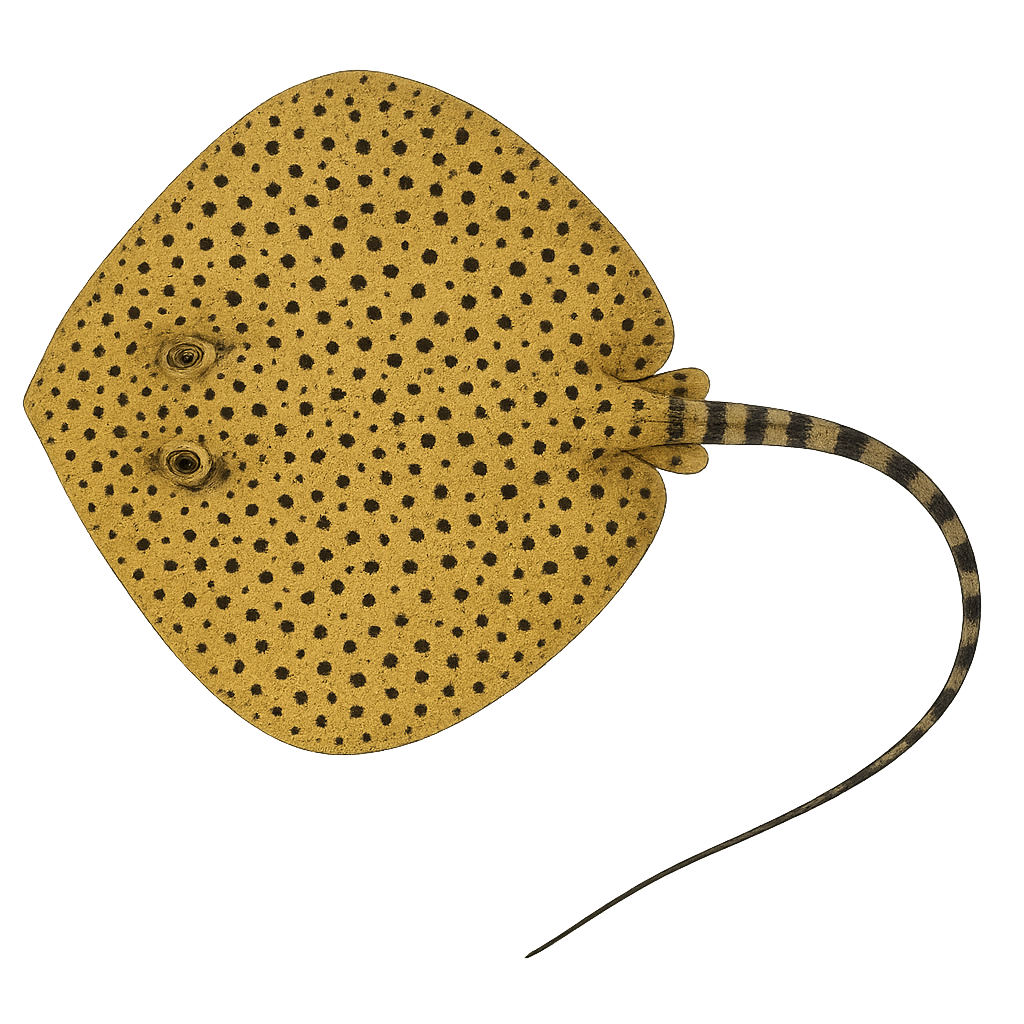
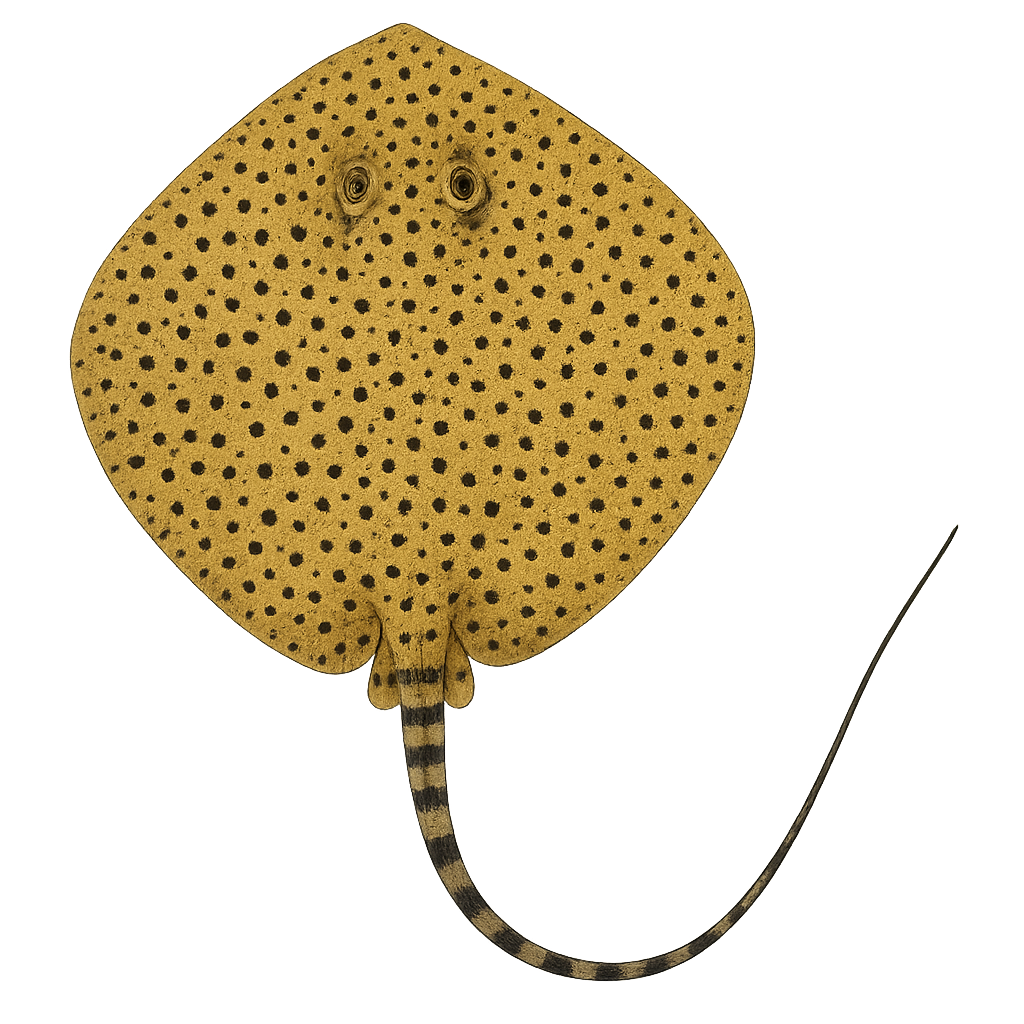
feat: Rays

Changed region(s): [[0.0, 0.0, 0.9688, 0.9688], [0.8438, 0.5625, 0.9062, 0.6562], [0.5625, 0.8438, 0.6562, 0.9062]]

diff --git a/src/data/configs/rays/myliobatiformes.config.js b/src/data/configs/rays/myliobatiformes.config.js
@@ -1,4 +1,4 @@
-import { dasyatisMicrops } from "../../species/rays/myliobatiformes/dasyatis-microps";
+import { megatrygonMicrops } from "../../species/rays/myliobatiformes/megatrygon-microps";
 import { hexatrygonBickelli } from "../../species/rays/myliobatiformes/hexatrygon-bickelli";
 import { himanturaSchmardae } from "../../species/rays/myliobatiformes/himantura-schmardae";
 import { paratrygonAiereba } from "../../species/rays/myliobatiformes/paratrygon-aiereba";
@@ -25,7 +25,7 @@ export const myliobatiformesConfig = {
                     children: [
                         {
                             children: [
-                                dasyatisMicrops,
+                                megatrygonMicrops,
                                 {
                                     children: [
                                         himanturaSchmardae,

diff --git a/src/data/species/rays/myliobatiformes/dasyatidae/neotrygon-picta.js b/src/data/species/rays/myliobatiformes/dasyatidae/neotrygon-picta.js
@@ -1,9 +1,12 @@
 import { CONSERVATION_STATUS, NUM_DORSAL_FINS, REPRODUCTIVE_STRATEGY, TAIL_SPINES, VENOMOUS_SPINE } from "../../../../../constants/enums";
+import neotrygonPictaUrl from "./../../../../../images/rays/myliobatiformes/dasyatidae/neotrygon-picta.png";
 
 export const neotrygonPicta = {
     commonName: "Pepper Maskray",
     alternativeNames: ["Peppered Maskray", "Speckled Maskray"],
     binomialName: "Neotrygon picta",
+
+    imageUrl: neotrygonPictaUrl,
 
     domain:	"Eukaryota",
     kingdom: "Animalia",

diff --git a/src/data/species/rays/myliobatiformes/dasyatidae/pastinachus-stellurostris.js b/src/data/species/rays/myliobatiformes/dasyatidae/pastinachus-stellurostris.js
@@ -1,8 +1,11 @@
 import { CONSERVATION_STATUS, NUM_DORSAL_FINS, REPRODUCTIVE_STRATEGY, TAIL_SPINES, VENOMOUS_SPINE } from "../../../../../constants/enums";
+import pastinachusStellurostrisImg from "./../../../../../images/rays/myliobatiformes/dasyatidae/pastinachus-stellurostris.png";
 
 export const pastinachusStellurostris = {
     commonName: "Starrynose Cowtail Ray",
     binomialName: "Pastinachus stellurostris",
+
+    imageUrl: pastinachusStellurostrisImg,
 
     domain:	"Eukaryota",
     kingdom: "Animalia",

diff --git a/src/data/species/rays/myliobatiformes/dasyatidae/pastinachus-gracilicaudus.js b/src/data/species/rays/myliobatiformes/dasyatidae/pastinachus-gracilicaudus.js
@@ -1,8 +1,11 @@
 import { CONSERVATION_STATUS, NUM_DORSAL_FINS, REPRODUCTIVE_STRATEGY, TAIL_SPINES, VENOMOUS_SPINE } from "../../../../../constants/enums";
+import pastinachusGracilicaudusImg from "./../../../../../images/rays/myliobatiformes/dasyatidae/pastinachus-gracilicaudus.png";
 
 export const pastinachusGracilicaudus = {
     commonName: "Narrowtail Stingray",
     binomialName: "Pastinachus gracilicaudus",
+
+    imageUrl: pastinachusGracilicaudusImg,
 
     domain:	"Eukaryota",
     kingdom: "Animalia",

diff --git a/src/data/species/rays/myliobatiformes/dasyatidae/pastinachus-solocirostris.js b/src/data/species/rays/myliobatiformes/dasyatidae/pastinachus-solocirostris.js
@@ -1,8 +1,11 @@
 import { CONSERVATION_STATUS, NUM_DORSAL_FINS, REPRODUCTIVE_STRATEGY, TAIL_SPINES, VENOMOUS_SPINE } from "../../../../../constants/enums";
+import pastinachusSolocirostrisImg from "./../../../../../images/rays/myliobatiformes/dasyatidae/pastinachus-solocirostris.png";
 
 export const pastinachusSolocirostris = {
     commonName: "Roughnose Stingray",
     binomialName: "Pastinachus solocirostris",
+
+    imageUrl: pastinachusSolocirostrisImg,
 
     domain:	"Eukaryota",
     kingdom: "Animalia",

diff --git a/src/data/species/rays/myliobatiformes/megatrygon-microps.js b/src/data/species/rays/myliobatiformes/megatrygon-microps.js
@@ -1,8 +1,11 @@
 import { BEHAVIOR, CONSERVATION_STATUS, NUM_DORSAL_FINS, REPRODUCTIVE_STRATEGY, TAIL_SPINES, VENOMOUS_SPINE } from "../../../../constants/enums";
+import megatrygonMicropsImg from "./../../../../images/rays/myliobatiformes/megatrygon-microps.png";
 
-export const dasyatisMicrops = {
+export const megatrygonMicrops = {
     commonName: "Smalleye Stingray",
     binomialName: "Megatrygon microps",
+
+    imageUrl: megatrygonMicropsImg,
 
     domain:	"Eukaryota",
     kingdom: "Animalia",

diff --git a/src/data/species/rays/myliobatiformes/dasyatidae/neotrygon-ningalooensis.js b/src/data/species/rays/myliobatiformes/dasyatidae/neotrygon-ningalooensis.js
@@ -1,8 +1,11 @@
 import { CONSERVATION_STATUS, NUM_DORSAL_FINS, REPRODUCTIVE_STRATEGY, TAIL_SPINES, VENOMOUS_SPINE } from "../../../../../constants/enums";
+import neotrygonNingalooensisImg from "./../../../../../images/rays/myliobatiformes/dasyatidae/neotrygon-ningalooensis.png";
 
 export const neotrygonNingalooensis = {
     commonName: "Ningaloo Maskray",
     binomialName: "Neotrygon ningalooensis",
+
+    imageUrl: neotrygonNingalooensisImg,
 
     domain:	"Eukaryota",
     kingdom: "Animalia",

diff --git a/src/data/species/rays/myliobatiformes/dasyatidae/urogymnus-asperrimus.js b/src/data/species/rays/myliobatiformes/dasyatidae/urogymnus-asperrimus.js
@@ -1,8 +1,11 @@
 import { CONSERVATION_STATUS, NUM_DORSAL_FINS, REPRODUCTIVE_STRATEGY, TAIL_SPINES, VENOMOUS_SPINE } from "../../../../../constants/enums";
+import urogymnusAsperrimusImg from "./../../../../../images/rays/myliobatiformes/dasyatidae/urogymnus-asperrimus.png";
 
 export const urogymnusAsperrimus = {
     commonName: "Porcupine Ray",
     binomialName: "Urogymnus asperrimus",
+
+    imageUrl: urogymnusAsperrimusImg,
 
     domain:	"Eukaryota",
     kingdom: "Animalia",

diff --git a/src/data/species/rays/myliobatiformes/dasyatidae/himantura-lobistoma.js b/src/data/species/rays/myliobatiformes/dasyatidae/himantura-lobistoma.js
@@ -1,8 +1,11 @@
 import { CONSERVATION_STATUS, NUM_DORSAL_FINS, REPRODUCTIVE_STRATEGY, TAIL_SPINES, VENOMOUS_SPINE } from "../../../../../constants/enums";
+import himanturaLobistomaImg from "./../../../../../images/rays/myliobatiformes/dasyatidae/himantura-lobistoma.png";
 
 export const himanturaLobistoma = {
     commonName: "Tubemouth Whipray",
     binomialName: "Himantura lobistoma",
+
+    imageUrl: himanturaLobistomaImg,
 
     domain:	"Eukaryota",
     kingdom: "Animalia",
